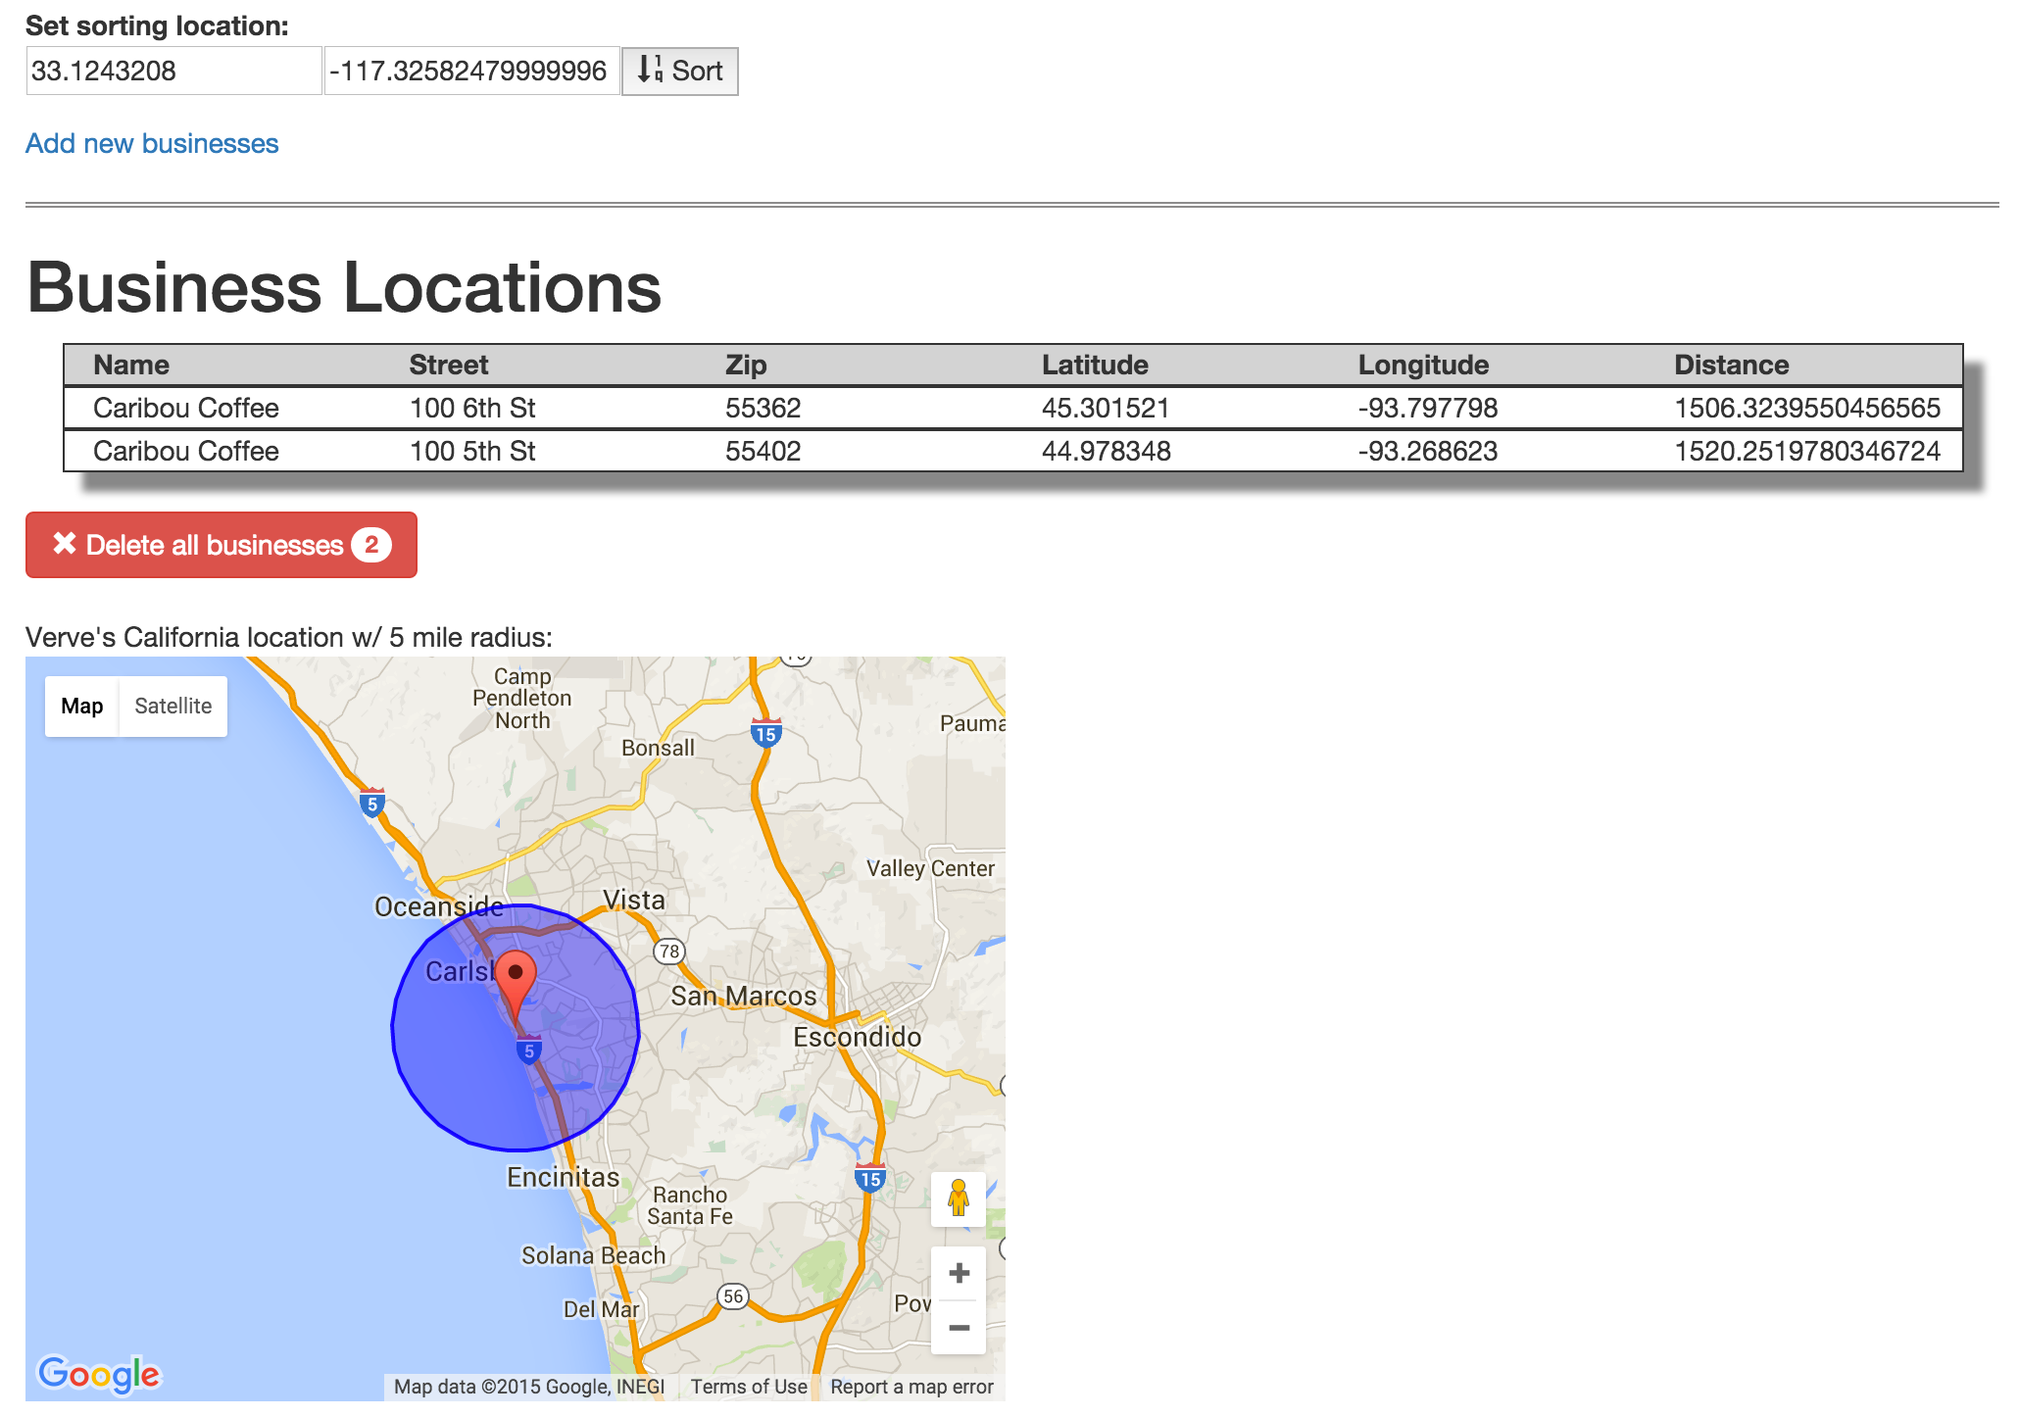
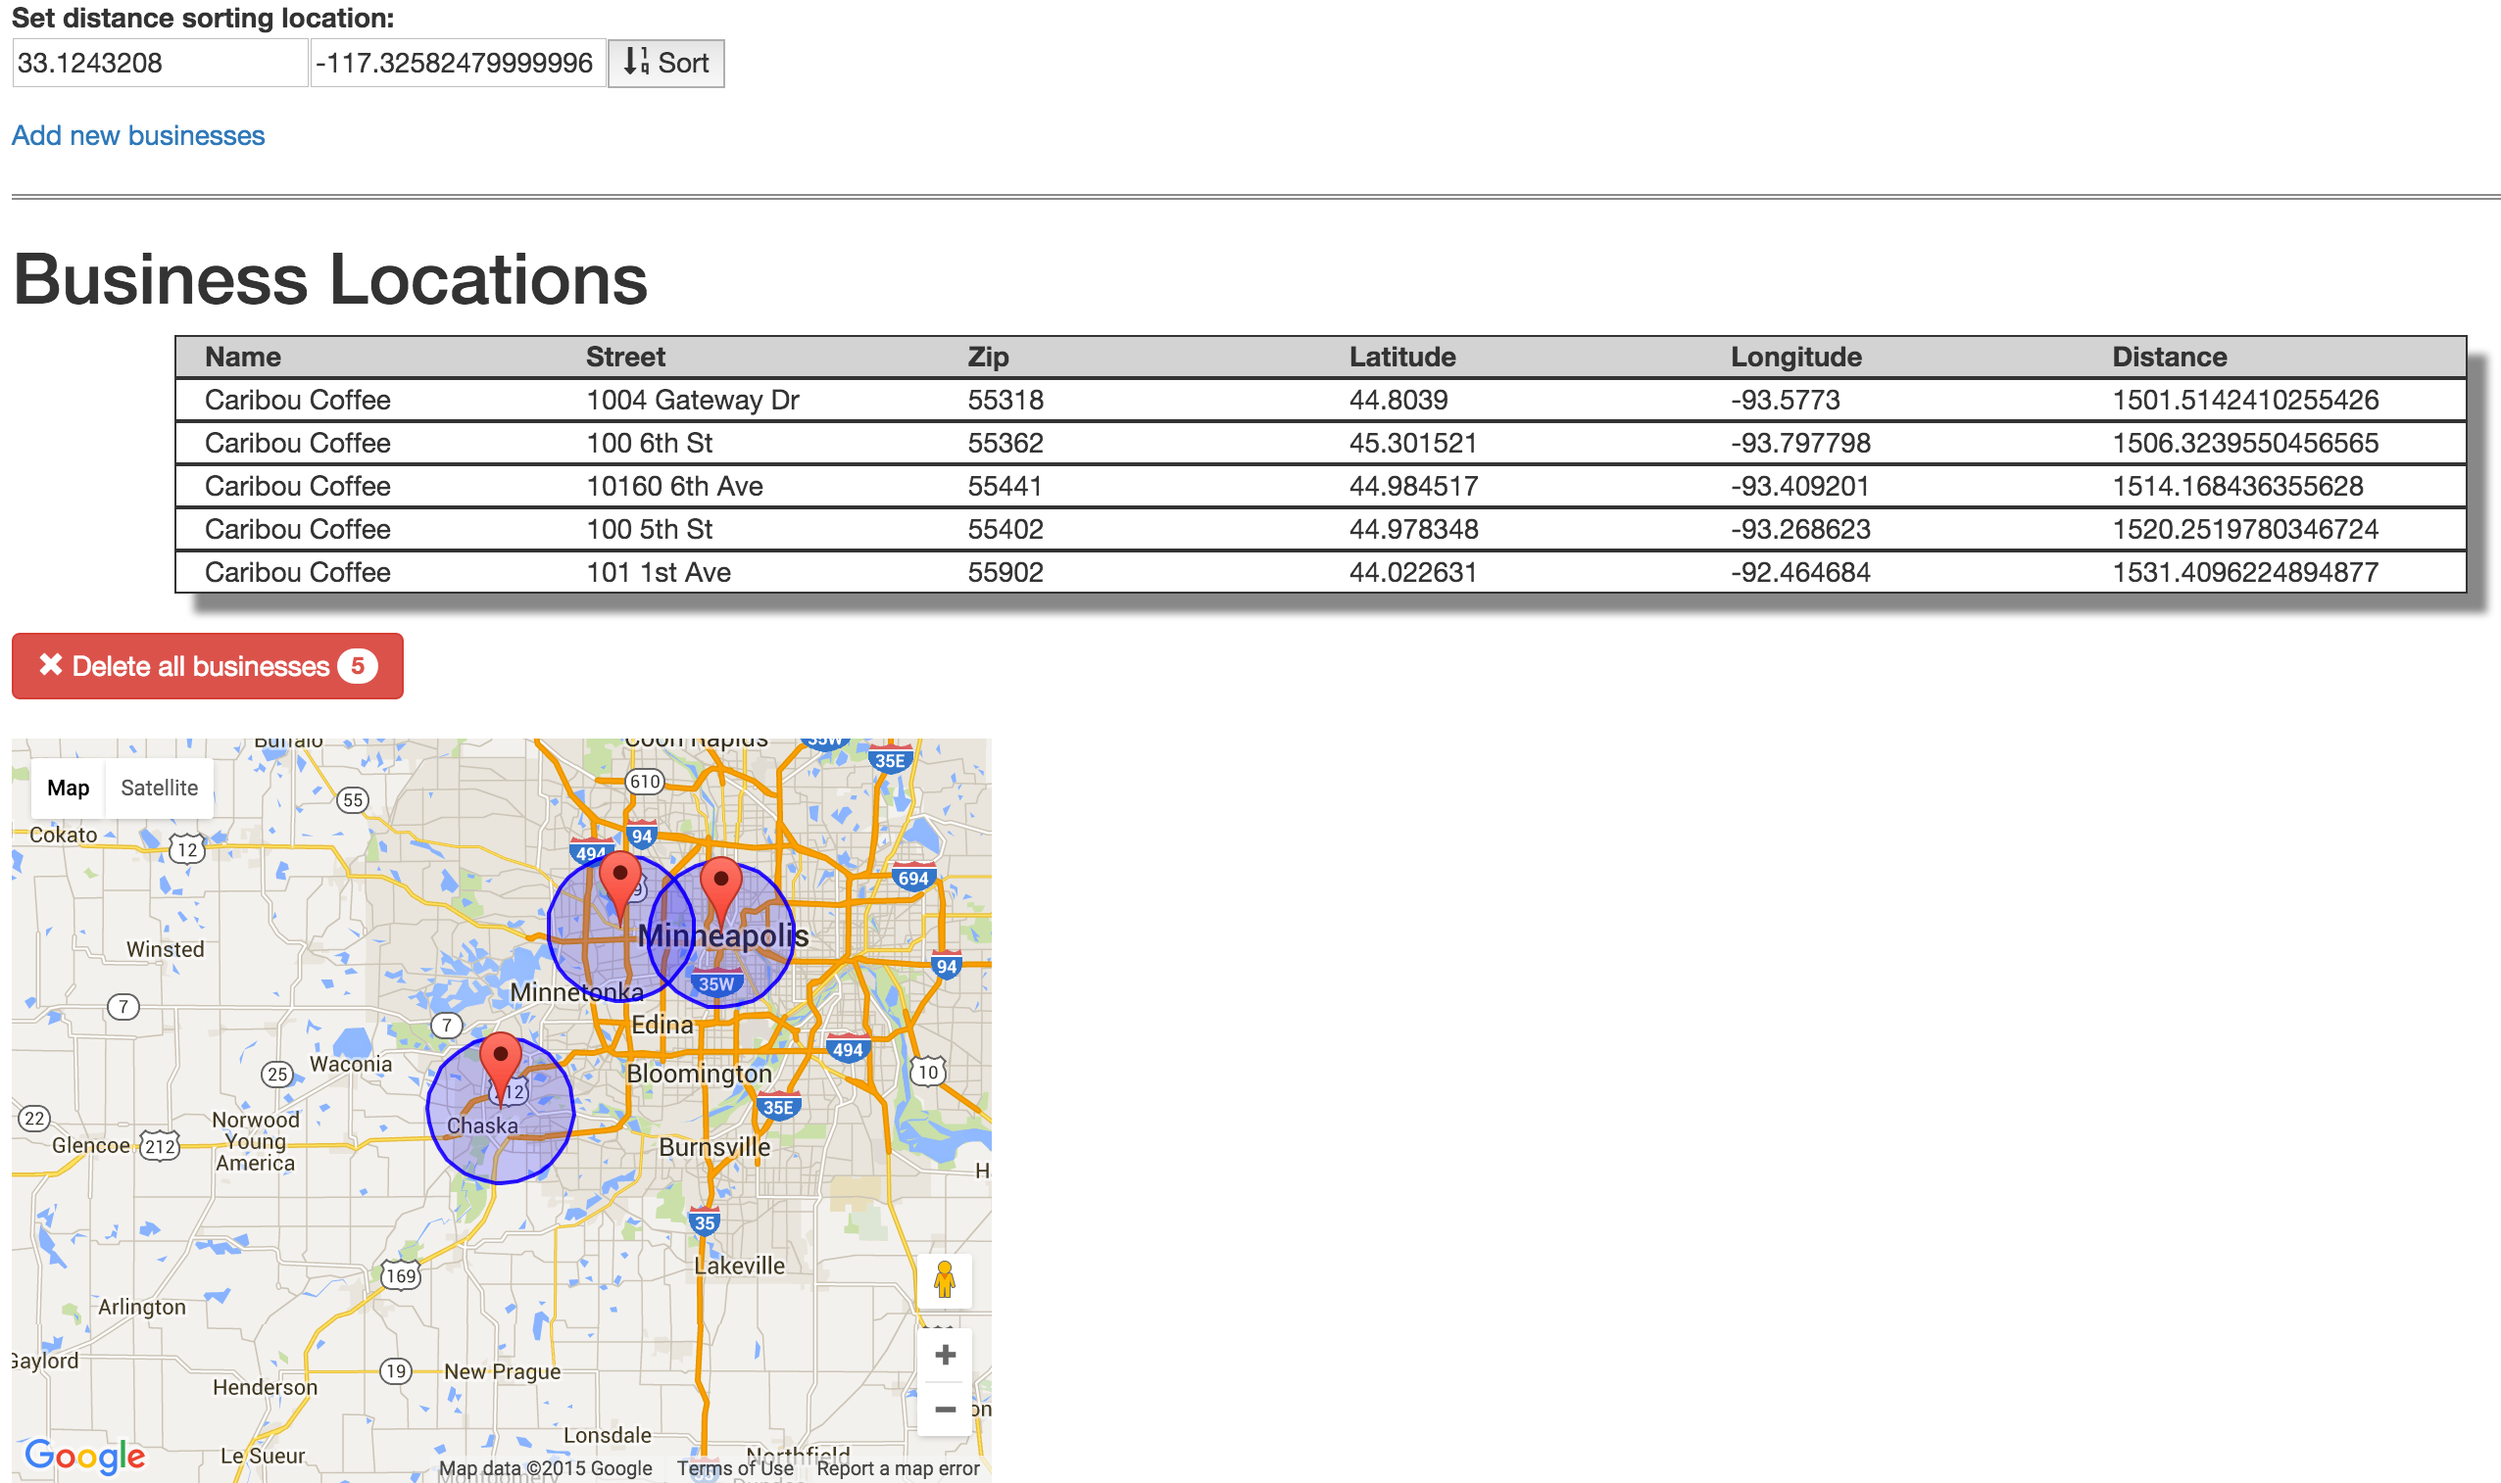
Show markers for all businesses.

diff --git a/lib/public/index.html b/lib/public/index.html
@@ -36,6 +36,7 @@
     <script type="text/jsx">
       Businesses = React.createClass({
         getInitialState: function() {
+          this.initializeMap();
           return {
             businesses: [],
             latitude: 33.1243208,
@@ -68,24 +69,36 @@
           console.log(business);
           console.log(evt);
           var center = new google.maps.LatLng(business.latitude, business.longitude);
-          var zoom = 10;
-          map = window.googleMap;
-          map.setCenter(center, zoom);
-          new google.maps.Marker({
-            position: center,
-            map: map,
-            title: 'Hello ' + business.name + '!'
+          var zoom = 9;
+          var map = window.googleMap;
+          map.setCenter(center);
+          map.setZoom(zoom);
+        },
+
+        setMarkers: function(businesses) {
+          var map = window.googleMap;
+          console.log('businesses');
+          console.log(businesses);
+          businesses.forEach(function(business) {
+            var center = new google.maps.LatLng(business.latitude, business.longitude);
+            var marker = new google.maps.Marker({
+              position: center,
+              map: map,
+              title: business.name + ',' + business.latitude + ',' + business.longitude + ', radius ' + business.radius + ' miles',
+            });
+
+            var circle = new google.maps.Circle({
+              center: center,
+              map: map,
+              radius:Number(business.radius)*1609.34,
+              strokeColor:"#0000FF",
+              strokeOpacity:0.8,
+              strokeWeight:2,
+              fillColor:"#0000FF",
+              fillOpacity:0.2,
+            });
           });
-          new google.maps.Circle({
-            center:center,
-            map: map,
-            radius:Number(business.radius)*1609.34,
-            strokeColor:"#0000FF",
-            strokeOpacity:0.8,
-            strokeWeight:2,
-            fillColor:"#0000FF",
-            fillOpacity:0.4
-          });
+          this.onBusinessRowClick(businesses[0]);
         },
 
         onDeleteAllClick: function(e) {
@@ -131,6 +144,7 @@
 
         reload: function() {
           console.log('reloading');
+          var self = this;
           var params = {"latitude": this.state.latitude, "longitude": this.state.longitude}
           $.get(this.props.source, params, function(result) {
             var collection = result.businesses;
@@ -138,9 +152,40 @@
               this.setState({
                 businesses: collection
               });
+              console.log(collection);
+              self.setMarkers(collection);
             }
           }.bind(this));
         },
+
+        initializeMap: function() {
+          var latLng = {lat: 33.1243208, lng: -117.32582479999996};
+          var mapProp = {
+            center:new google.maps.LatLng(latLng.lat,latLng.lng),
+            zoom:10,
+            mapTypeId:google.maps.MapTypeId.ROADMAP
+          };
+          var map=new google.maps.Map(document.getElementById("googleMap"),mapProp);
+          window.googleMap = map;  // kludge because not sure how to handle scoping
+
+          var marker = new google.maps.Marker({
+            position: latLng,
+            map: map,
+            title: 'Hello Verve!'
+          });
+          // marker.setMap(map);
+
+          var circle = new google.maps.Circle({
+            center:latLng,
+            map: map,
+            radius:5*1609.34,
+            strokeColor:"#0000FF",
+            strokeOpacity:0.8,
+            strokeWeight:2,
+            fillColor:"#0000FF",
+            fillOpacity:0.2
+          });
+        }.bind(this),
 
         render: function() {
           var self = this;
@@ -153,7 +198,7 @@
           }
           return (
             <div>
-              <b>Set sorting location: </b>
+              <b>Set distance sorting location: </b>
               <form onSubmit={this.handleLocation}>
                 <input onChange={this.onLatitudeChange} value={this.state.latitude} />
                 <input onChange={this.onLongitudeChange} value={this.state.longitude} />
@@ -205,41 +250,6 @@
 
       // toggle the 'add new businesses' section
       $("#inputRef").click(function(){ $("#businessInputs").toggle() });
-
-
-
-      function initializeMap() {
-        var latLng = {lat: 33.1243208, lng: -117.32582479999996};
-        var mapProp = {
-          center:new google.maps.LatLng(latLng.lat,latLng.lng),
-          zoom:10,
-          mapTypeId:google.maps.MapTypeId.ROADMAP
-        };
-        var map=new google.maps.Map(document.getElementById("googleMap"),mapProp);
-        window.googleMap = map;  // kludge because not sure how to handle scoping
-
-        var marker = new google.maps.Marker({
-          position: latLng,
-          map: map,
-          title: 'Hello Verve!'
-        });
-        // marker.setMap(map);
-
-        var circle = new google.maps.Circle({
-          center:latLng,
-          map: map,
-          radius:5*1609.34,
-          strokeColor:"#0000FF",
-          strokeOpacity:0.8,
-          strokeWeight:2,
-          fillColor:"#0000FF",
-          fillOpacity:0.4
-        });
-      }
-      google.maps.event.addDomListener(window, 'load', initializeMap);
-
-
-
     </script>
 
   </body>

diff --git a/lib/webapp.rb b/lib/webapp.rb
@@ -22,8 +22,7 @@ end
 
 def default_businesses_text
   txt = default_businesses_string
-  lines = txt.split("\r")
-  lines.join("\n")
+  txt.gsub("\r", "\n")
 end
 
 def default_businesses_string
@@ -33,7 +32,7 @@ end
 def default_two_businesses_string
   str = default_businesses_string
   lines = str.split("\r")
-  lines[0..2].join("\r")
+  lines[0..5].join("\r")
 end
 
 get '/version' do
@@ -60,7 +59,7 @@ post '/new_businesses' do
   $stderr.puts "\nadding new businesses"
   content_type :json
   txt = (params['data'])
-  txt = txt.split("\n").join("\r")
+  txt = txt.gsub("\n", "\r")
   errors = Geo::LoadBusinesses.load_businesses($businesses, txt)
   $stderr.puts 'errors', errors.inspect
   if errors.empty?

diff --git a/README.md b/README.md
@@ -5,27 +5,9 @@
 ![Alt text](docs/screenshot.png?raw=true "Screenshot")
 
 This repository is for the Verve
-[coding challenge](https://github.com/VerveWireless/software-challenge),
-but I took it as an opportunity
-to experiment with the virtus gem and write my first react.js code.
+[coding challenge](https://github.com/VerveWireless/software-challenge).
 
-Using sinatra rather than rails as this is a small, self-contained project.
-Rails has a good transpiling framework -- not sure how to do the jsx
-transpiling in sinatra. Spent about two minutes with babel, but then went with the jsxtransformer.
-
-The example file does not have the same columns as the coding challenge description,
-so my models contain the superset, but am showing the subset.
-
-The rows of the example file are unique via street, latitude, and longitude, so
-those are what I use as the key. Should a second row occur with the same key,
-the original row will be updated.
-
-Added a bit of google map api code at the last minute.
-Clicking a business row moves the map to that business location and uses the
-business's radius, but the map needs to be moved to a
-modal. Otherwise, when there are many rows, the map will be lost at the bottom of the page. (Just noticed another problem with my implementation.
-Clicking multiple times on a business creates new markers and radius circles.
-Ideally the business would keep track of whether it had already set the marker.)
+The example file format is slightly different than the challenge description. This uses the example file format (and puts it into the textarea as a default, which may be modified before submission.) The first five rows are added upon startup.
 
 ![Alt text](docs/verve.png?raw=true "Class Diagram")
 
